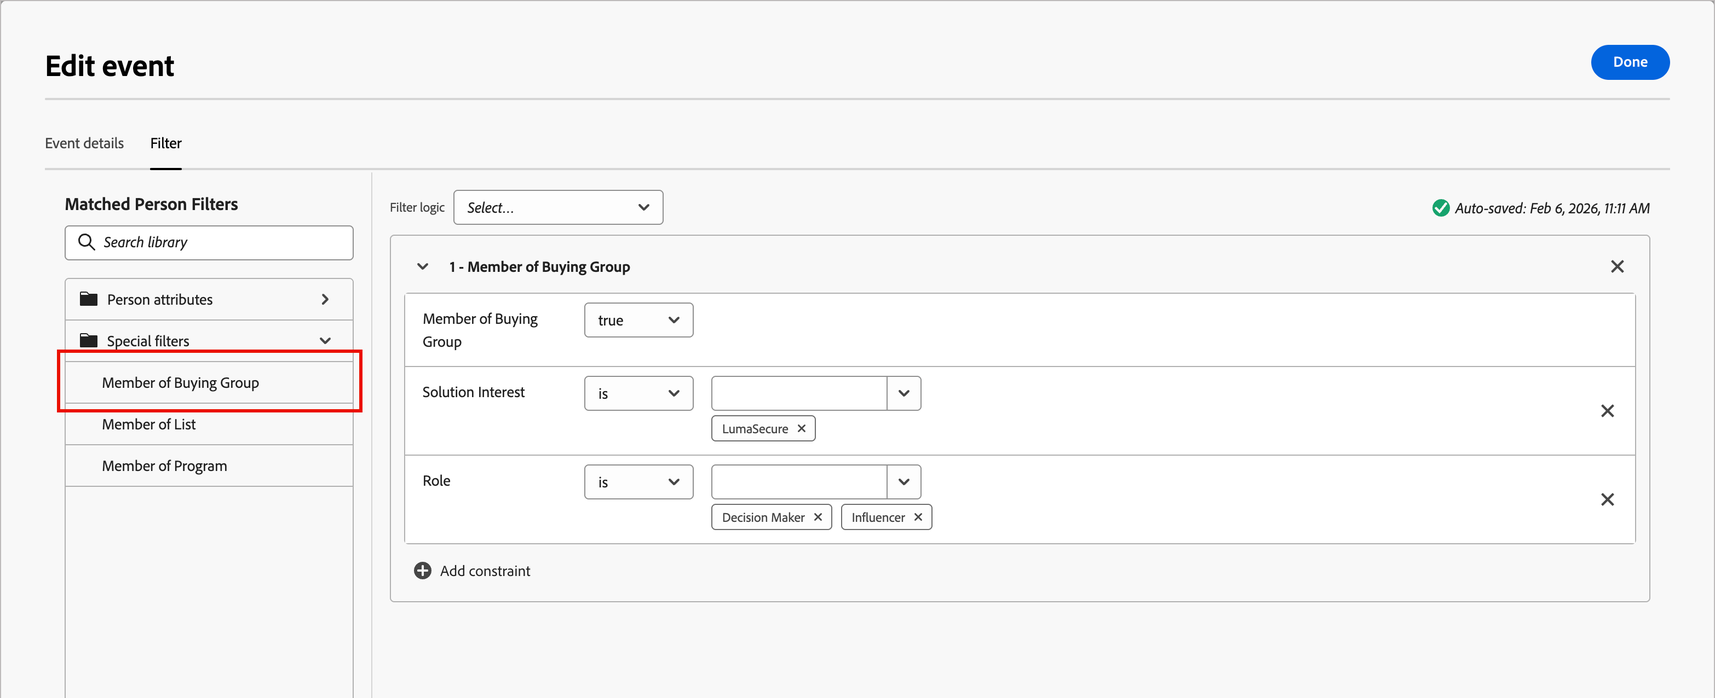
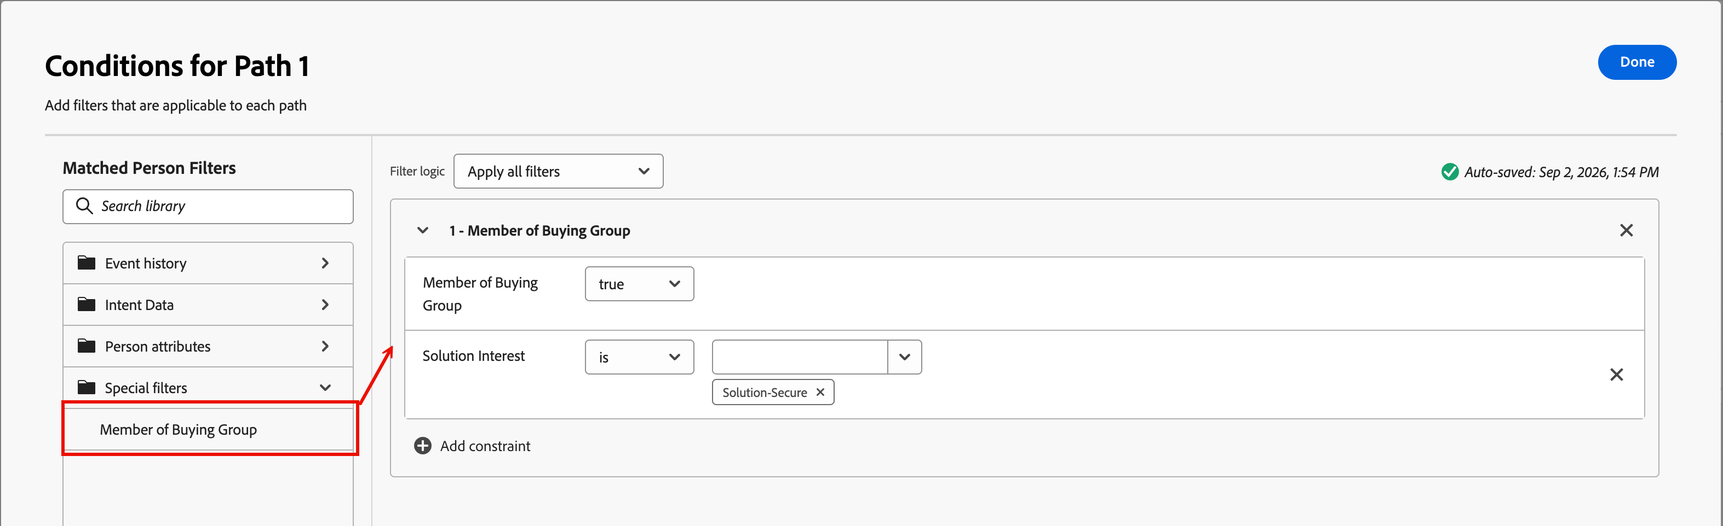
SPHR-38811, updates to finish cleanup from M1.5 transition

diff --git a/help/user/journeys/split-merge-paths-nodes.md b/help/user/journeys/split-merge-paths-nodes.md
@@ -105,7 +105,7 @@ _**How a split path by accounts node works**_
 
 You can define a path for accounts associated with buying groups and filter the path using buying group criteria. Use the **[!UICONTROL Account has matched buying group]** filter to define the path segment using a matched buying group. This filter also includes the option to identify accounts based on the number of assigned roles within a matched buying group.
 
-For example, you could evaluate buying group readiness based on the depth (number of people) it has in different roles, such as three decision makers and two influencers. In this case, set the condition to target accounts with a minimum of three (3) Decision Makers and two (2) Influencers in a matched buying group:
+For example, evaluate buying group readiness based on the depth (number of people) it has in different roles, such as three decision-makers and two influencers. In this case, set the condition to target accounts with a minimum of three (3) Decision Makers and two (2) Influencers in a matched buying group:
 
 1. Click **[!UICONTROL Add filter]** and choose the **[!UICONTROL Number of people in buying group role]** filter.
 
@@ -127,7 +127,7 @@ For example, you could evaluate buying group readiness based on the depth (numbe
 
 1. Click **[!UICONTROL Done]** when you have all conditions defined for the path.
 
-For the identified accounts, you could then add an action node in the path to update the status of the buying group or stage, or to send a sales alert email.
+To update the status of the buying group or stage, or to send a sales alert email for the identified accounts, add an action node in the path.
 
 ## Split paths by people
 
@@ -153,8 +153,6 @@ _**How a split path by people node works**_
 | [!UICONTROL Event history] | Splits people based on experience events that occurred prior to journey entry. Expand the folder to see all event types configured in [Admin > XDM event configuration](../admin/configure-aep-events.md) and select one to add as a filter. Constraints include fields from the selected event, a lookback time window measured back from when the person enters the journey, and an optional minimum number of times. |
 | [!UICONTROL Person attributes] | Attributes from the [person profile](../admin/field-mapping.md#xdm-business-person-attributes), including: <li>City <li>Country <li>Email address <li>Email invalid <li>Email suspended <li>First name <li>Inferred state region <li>Job title <li>Last name <li>Mobile phone number <li>Person engagement score <li>Phone number <li>Postal code <li>State |
 | [!UICONTROL Special filters] > [!UICONTROL Member of Buying Group] | The person is or is not a buying group member evaluated against one or more of the following criteria: <li>Solution Interest</li><li>Buying Group status</li><li>Completeness Score</li><li>Engagement Score</li><li>Is Removed</li><li>Role</li> |
-| [!UICONTROL Special filters] > [!UICONTROL Member of List] | (Deprecated) The person is or is not a member of one or more [!DNL Marketo Engage] lists. |
-| [!UICONTROL Special filters] > [!UICONTROL Member of Program] | (Deprecated) The person is or is not a member of one or more [!DNL Marketo Engage] programs. |
 
 ### Account-person path conditions
 
@@ -183,7 +181,7 @@ _**How a split path by people node works**_
 
 1. To define a condition applicable to _[!UICONTROL Path 1]_, click **[!UICONTROL Apply condition]**.
 
-1. In the conditions editor, add one or more filters to define the split path.
+1. To define the split path, add one or more filters in the conditions editor.
 
    * Drag and drop any of the people filters from the left navigation and complete the match definition.
 
@@ -217,15 +215,15 @@ _**How a split path by people node works**_
 
 ### Experience event history filtering {#experience-event-history-filtering}
 
-For a split path by people, you can define a path based on experience events that occurred before the person entered the journey. In the conditions editor, expand the **[!UICONTROL Event history]** folder to see a list of all event types configured by your administrator. Select an event type to add it as a filter condition.
+For a split path by people, you can define a path based on experience events that occurred before the person entered the journey. To see a list of all event types configured by your administrator, expand the **[!UICONTROL Event history]** folder in the conditions editor. Select an event type to add it as a filter condition.
 
 The lookback time window for event history is measured backward from the moment the person enters the journey. For example, a 30-day window evaluates whether the qualifying event occurred within the 30 days prior to journey entry.
 
-You can further refine the filter using constraints specific to the selected event's fields. The optional **[!UICONTROL Minimum number of times]** and **[!UICONTROL Date of activity]** constraints are both evaluated within the defined lookback window. Because event history data is synced from Adobe Experience Platform, there may be a brief delay before a recently occurring event becomes visible to this filter.
+You can further refine the filter using constraints specific to the selected event's fields. The optional **[!UICONTROL Minimum number of times]** and **[!UICONTROL Date of activity]** constraints are both evaluated within the defined lookback window. Because event history data is synced from Adobe Experience Platform, there may be a brief delay before a recently occurring event becomes available to this filter.
 
 >[!NOTE]
 >
->The events available in the [!UICONTROL Event history] folder are determined by the [Experience Events and fields configurations](../admin/configure-aep-events.md).
+>The [Experience Events and fields configurations](../admin/configure-aep-events.md) determine the events available in the [!UICONTROL Event history] folder.
 
 **Example:** To route people who clicked a link in a marketing email before entering the journey, select the email click event from the [!UICONTROL Event history] folder, set the lookback window to cover the relevant time period, and apply any field-level constraints (such as a specific link URL) as needed.
 
@@ -233,7 +231,7 @@ You can further refine the filter using constraints specific to the selected eve
 
 >[!BEGINSHADEBOX "Inactivity filtering"]
 
-For each of the _[!UICONTROL Event history]_ filters, you can enable the **[!UICONTROL Switch to inactivity filter]** option. This option changes the filter to an evaluation for an absence of that activity type. For example, add the _[!UICONTROL Direct Marketing Email Opened]_ filter to create a path for people who _**did not**_ open an email. Enable the inactivity option and specify the email.
+For each of the _[!UICONTROL Event history]_ filters, you can enable the **[!UICONTROL Switch to inactivity filter]** option. This option changes the filter to an evaluation for an absence of that activity type. To create a path for people who _**did not**_ open an email, add the _[!UICONTROL Direct Marketing Email Opened]_ filter. Enable the inactivity option and specify the email.
 
 ![Split path by people inactivity condition](./assets/node-split-people-condition-inactivity.png){width="700" zoomable="yes"}
 
@@ -241,40 +239,24 @@ For each of the _[!UICONTROL Event history]_ filters, you can enable the **[!UIC
 
 ### Membership filtering
 
-Within the _[!UICONTROL Special Filters]_ section, there are multiple filters that you can use to evaluate a person's membership in a buying group or [!DNL Marketo Engage] list. 
+Within the _[!UICONTROL Special Filters]_ section, there are multiple filters that you can use to evaluate a person's membership in a buying group. 
 
-For example, if you want to create a path for people who are members of a buying group and are assigned a particular role, add the _[!UICONTROL Special filters]_ > _[!UICONTROL Member of Buying group]_ filter. For the filter, set the membership as _true_, select a _[!UICONTROL Solution interest]_ that is associated with one or more buying groups, and set the _[!UICONTROL Role]_ that you want to match.
+For example, if you want to create a path for people who are members of a buying group and are assigned a particular role, add the _[!UICONTROL Special filters]_ > _[!UICONTROL Member of Buying group]_ filter. For the filter, set the membership as _true_ and select a _[!UICONTROL Solution interest]_ that is associated with one or more buying groups.
 
 ![Split path by people condition for buying group membership](./assets/node-split-people-condition-buying-group-membership.png){width="700" zoomable="yes"}
 
-You can also include additional buying group membership constraints:
+Click **[!UICONTROL Add constraint]** to include additional buying group membership constraints:
 
 * _[!UICONTROL Buying group stage]_
 * _[!UICONTROL Buying group status]_
 * _[!UICONTROL Completeness score]_
 * _[!UICONTROL Engagement score]_
 * _[!UICONTROL Is Removed]_
+* _[!UICONTROL Role]_
 
 >[!TIP]
 >
 >To exclude members who were removed from a buying group, use the _[!UICONTROL Is Removed]_ constraint set to `false`. You can also explicitly include removed members by setting this constraint to `true`.
-
->[!BEGINSHADEBOX "Marketo Engage list and program membership"]
-   
-In [!DNL Marketo Engage], _Smart Campaigns_ check membership of programs to ensure that leads don't receive duplicate emails and aren't members of multiple streams of emails at the same time. In Journey Optimizer B2B, you can check for [!DNL Marketo Engage] list membership as a condition for your split path by people to help eliminate duplication in journey activities.
-      
-To use list membership in a split condition, expand **[!UICONTROL Special Filters]** and drag the **[!UICONTROL Member of List]** or **[!UICONTROL Member of Program]** condition into the filter space. Complete the filter definition to evaluate membership in one or more [!DNL Marketo Engage] lists.
-   
-![Split path by people condition for [!DNL Marketo Engage] list membership](./assets/node-split-paths-conditions-people-member-of-list.png){width="700" zoomable="yes"}
-<br/>
-
->[!NOTE]
->
->**Feature deprecation**</br></br>
->
->In the current Journey Optimizer B2B Edition release, filtering based on list or program membership in a Marketo Engage instance is not supported.
-   
->[!ENDSHADEBOX]
 
 ## Custom data filtering {#custom-data-filtering}
 
@@ -288,7 +270,7 @@ For a **[!UICONTROL Split path by account]** or **[!UICONTROL Split path by peop
 
 ## Merge paths {#merge-paths}
 
-Add a _Merge paths_ node to combine different _split paths by account_ in your journey. 
+To combine different _split paths by account_ in your journey, add a _Merge paths_ node. 
 
 1. In a journey map with a split node that has three or more paths, add a combination of actions and events to each path.
 

diff --git a/help/user/journeys/action-nodes.md b/help/user/journeys/action-nodes.md
@@ -26,7 +26,7 @@ autotag-review: '2026-04-29T23:21:59.633Z'
 ---
 # Take an action
 
-To execute an action, such as sending an email, changing a score, or assigning to a buying group, you can add a _[!UICONTROL Take an action]_ node in your journey. Actions are typically what you want to happen as a result of some kind of trigger, such as an event or a previous action.
+To execute an action, such as sending an email, changing a score, or assigning to a buying group, add a _[!UICONTROL Take an action]_ node in your journey. Actions are typically what you want to happen as a result of some kind of trigger, such as an event or a previous action.
 
 ![Video](../../assets/do-not-localize/icon-video.svg){width="30"} [Watch the overview video](#overview-video)
 
@@ -137,12 +137,6 @@ In an account or person journey, use an action on people when you want to apply 
 | | [!UICONTROL Add to Marketo list] | <li>Account journey <li>Person journey | <li>Name of external Marketo connection <li>List name |
 | | [!UICONTROL Remove from Marketo list] | <li>Account journey <li>Person journey | <li>Name of external Marketo connection <li>List name |
 
->[!NOTE]
->
->The _[!UICONTROL Change People Partition in Marketo Engage]_ and _[!UICONTROL Change Score]_ actions are deprecated for the 2025.10 release and are no longer available in Journey Optimizer B2B Edition.<br/>
->
->The _[!UICONTROL Change Data Value]_ action is deprecated for the 2025.10 release. It is replaced with _[!UICONTROL Update person profile]_ in the current Journey Optimizer B2B Edition release.
-
 ### Add a people-based action
 
 1. Navigate to the journey map.
@@ -226,14 +220,6 @@ Use this action to add people profiles to a [buying group](../buying-groups/buyi
 
 +++
 
-+++[!UICONTROL Change Score]
-
-Use this action to change the person score in Marketo Engage. [Learn more](https://experienceleague.adobe.com/en/docs/marketo-learn/tutorials/lead-and-data-management/lead-scoring-learn){target="_blank"}
-
-![Take an action - Change score](./assets/node-action-change-score.png){width="300"}
-
-+++
-
 +++[!UICONTROL Person Interesting Moment]
 
 Use this action to log an interesting moment for people. Choose a type (Email, Milestone, or Web) and add a description (optional).
@@ -254,7 +240,7 @@ Use this action to [create personalized experiences](../content/web-experiences.
 
 Use this action to remove people profiles from a [buying group](../buying-groups/buying-groups-overview.md) based on a selected solution interest.
 
-![Take an action - Add to Buying Group](./assets/node-action-remove-from-buying-group.png){width="300"}
+![Take an action - Remove from Buying Group](./assets/node-action-remove-from-buying-group.png){width="300"}
 
 +++
 
@@ -270,9 +256,9 @@ Use the **[!UICONTROL Select Person Journey]** selector to specify the person jo
 
 +++[!UICONTROL Send email]
 
-Use this action to send an email. After you [create the email](../content/add-email.md#add-an-email-action-node-in-a-journey) for the node, you can design, personalize, and preview email messages in the email design space (see [Email authoring](../content/email-authoring.md)). You can also send an [email from Marketo Engage](https://experienceleague.adobe.com/en/docs/marketo/using/product-docs/email-marketing/general/creating-an-email/create-an-email){target="_blank"}. Select the Marketo Engage workspace and then select the email to send.
+Use this action to send an email. After you [create the email](../content/add-email.md#send-email-node) for the node, you can design, personalize, and preview email messages in the email design space (see [Email authoring](../content/email-authoring.md)).
 
-![Take an action - Send email](./assets/node-action-send-email-from-marketo.png){width="300"}
+![Take an action - Send email](./assets/node-action-send-email.png){width="300"}
 
 For person journeys, use [Send-time optimization](../content/email-send-time-optimization.md) to personalize email delivery timing by predicting when each profile is most likely to engage.
 
@@ -308,7 +294,7 @@ Use this action to change the value of a [people profile attribute](../admin/fie
 >
 >The _[!UICONTROL Update person profile]_ action replaces the _[!UICONTROL Change Data Value]_ action in the current Journey Optimizer B2B Edition release.<br/>
 >
->An administrator can configure the available attributes for the XDM Individual Profile by updating the fields in the _[!UICONTROL XDM Configurations]_ > [!UICONTROL Standard classes]. For more information, see [Standard schemas](../admin/xdm-field-management.md#standard-schemas).
+>An administrator can configure the available attributes for the XDM Individual Profile by updating the fields in the _[!UICONTROL XDM Configurations]_ > _[!UICONTROL Standard classes]_. For more information, see [Standard schemas](../admin/xdm-field-management.md#standard-schemas).
 
 +++
 
@@ -318,7 +304,7 @@ The [!DNL Marketo Engage] people-based actions are designed to coordinate your A
 
 >[!NOTE]
 >
->The Marketo Engage actions require configured integration with one or more external Marketo Engage instances. For detailed information about this configuration, see [_Activate Marketo Engage connections to support actions_](../admin/marketo-actions-connect.md).
+>The Marketo Engage actions require configured integration with one or more external Marketo Engage instances. To find detailed information about this configuration, see [_Activate Marketo Engage connections to support actions_](../admin/marketo-actions-connect.md).
 
 For example, suppress campaigns in Marketo Engage for people that are part of buying groups in Journey Optimizer B2B Edition. In this case, you can create a static list in Marketo Engage specifically for the solution interest. Then, on a split path by buying group, use the _Add to Marketo list_ action from a journey node. This action adds buying group members to a particular static list in a connected Marketo Engage instance. Then, use the solution interest focused static list for a smart list filter in Marketo Engage.
 

diff --git a/help/user/accounts/account-lists-journeys.md b/help/user/accounts/account-lists-journeys.md
@@ -1,6 +1,6 @@
 ---
-title: Use Account Lists in Journeys and Programs
-description: Use account lists in journey orchestration, add/remove accounts dynamically, and filter Marketo Engage Smart Lists in Journey Optimizer B2B Edition.
+title: Use Account Lists in Journeys
+description: Use account lists in journey orchestration and add/remove accounts dynamically in Journey Optimizer B2B Edition.
 feature: Account Lists, Account Journeys
 role: User
 exl-id: 7cda080d-6263-4ccd-b144-432e4e78c298
@@ -19,7 +19,7 @@ topic_v2:
 autotag-review: 2026-03-27T22:29:03.719Z
 TQID: https://experienceleague.adobe.com/FokJGxTj7abTN01WCcrVLDEuNLW0oI-i-8z0j-rFBO4
 ---
-# Use account lists in journeys and programs
+# Use account lists in journeys
 
 There are multiple ways that you can incorporate Live (published) account lists into your account journeys.
 
@@ -43,7 +43,7 @@ All account journeys start with an [_Account audience_ node](../journeys/account
 
 Within an account journey, add accounts to a static account list using [a _Take an Action_ node](../journeys/action-nodes.md).
 
-For example, you might have a journey path where you send an email and some account take various actions as a response actions. You consider this activity to be a qualification point in the journey. With the qualification, you want to add them to an account list that is used to as the audience for another journey with a different flow for qualified accounts.
+For example, you have a journey path where you send an email and some accounts take various actions as a response. You consider this activity to be a qualification point in the journey. With the qualification, you want to add them to an account list that is used as the audience for another journey with a different flow for qualified accounts.
 
 >[!NOTE]
 >
@@ -65,7 +65,7 @@ For example, you might have a journey path where you send an email and some acco
 
 Within an account journey, remove accounts from a static account list using [a _Take an Action_ node](../journeys/action-nodes.md).
 
-For example, you might have a journey path where you send an email and some account take various actions as a response actions. You consider this activity to be a qualification point in the journey. With this qualification, you want to remove them from an account list that is used to as the audience for another journey that sends additional emails so that you don't duplicate your qualification communications.
+For example, you have a journey path where you send an email and some accounts take various actions as a response. You consider this activity to be a qualification point in the journey. With this qualification, you want to remove them from an account list. This list is used as the audience for another journey that sends additional emails so that you don't duplicate your qualification communications.
 
 >[!NOTE]
 >
@@ -75,38 +75,8 @@ For example, you might have a journey path where you send an email and some acco
 
 1. For _[!UICONTROL Action on accounts]_, choose **[!UICONTROL Remove from account list]**.
 
-   ![Select Add to account list](../journeys/assets/node-action-account-remove-from-account-list.png){width="500"}
+   ![Select Remove from account list](../journeys/assets/node-action-account-remove-from-account-list.png){width="500"}
 
 1. For **[!UICONTROL Select live static account list]**, choose the account list where you want to remove accounts.
 
-   ![Select Add to account list](../journeys/assets/node-action-account-remove-from-account-list-select.png){width="500"}
-
-## Marketo Engage program - Member of account list
-
-As a Marketer, you might want to suppress programs in Marketo Engage for people that are part of account lists in Journey Optimizer B2B Edition.
-
-In the Marketo Engage instance that is connected to Journey Optimizer B2B Edition, you can use the _[!UICONTROL Member of Account List]_ filter in your Smart Lists to identify these leads according to your campaign strategy. For more information about Smart Lists, refer to the [Marketo Engage documentation](https://experienceleague.adobe.com/en/docs/marketo/using/product-docs/core-marketo-concepts/smart-lists-and-static-lists/understanding-smart-lists){target="_blank"}.
-
-### Add the filter to a Smart List
-
-1. In Marketo Engage, select a campaign and click the **[!UICONTROL Smart List]** tab.
-
-1. In the filters list displayed on the right, enter `Member` and locate the **[!UICONTROL Member of Account List]** filter.
-
-1. Drag the filter onto the Smart List canvas.
-
-1. On the Smart List canvas, set the **[!UICONTROL Member of account]** list value.
-
-   Click the down arrow to display all account lists, or enter part of the account list name to help locate the account list that you need.
-
-   ![Marketo Engage smart list filter for account list membership](./assets/account-lists-marketo-engage-smart-list.png){width="800" zoomable="yes"}
-
-1. In the campaign flow, add the **[!UICONTROL Add to List]** step and choose the list where you want to populate the people from the Journey Optimizer B2B Edition account list.
-
-   Refer to _[Add a Flow step to a smart campaign](https://experienceleague.adobe.com/en/docs/marketo/using/product-docs/core-marketo-concepts/smart-campaigns/flow-actions/add-a-flow-step-to-a-smart-campaign){target="_blank"}_ in the Marketo Engage documentation for detailed information about adding steps to a flow.
-
-### Review the members
-
-After the flow runs, you can view the list of people populated in the list. Open the list and select the People tab.
-
-![Marketo Engage campaign list populated from an account list](./assets/account-lists-marketo-engage-smart-list-people.png){width="800" zoomable="yes"}
+   ![Select Remove from account list](../journeys/assets/node-action-account-remove-from-account-list-select.png){width="500"}

diff --git a/help/user/release-notes/release-notes.md b/help/user/release-notes/release-notes.md
@@ -163,7 +163,7 @@ The following agentic AI capabilities are now available for Journey Optimizer B2
 
 | Type | Item | Description |
 | ---- | ---- | ----------- |
-| Feature | Activate to destination for journeys | Use the new _Activate to destination_ company account action to activate directly to companies, rather than individuals. (Limited to LinkedIn companies for this release.) [Learn more](../journeys/action-nodes.md#activate-to-a-linkedin-destination) |
+| Feature | Activate to destination for journeys | Use the new _Activate to destination_ company account action to activate directly to companies, rather than individuals. (Limited to LinkedIn companies for this release.) [Learn more](../journeys/action-nodes.md#activate-deactivate-destination) |
 | Feature | Brand themes | With brand themes, non-technical users now have the ability to create reusable content that fits a specific brand and design language by adding custom styling on top of the standard templates. [Learn more](../content/brand-themes.md) |
 | Feature | Email templates - convert image to HTML | You can now use your design files stored as JPG or PNG image files and automatically generate email templates. [Learn more](../content/email-template-image-convert.md) |
 | Feature | Persona mapping | Tie account members with established personas with attribute mapping. [Learn more](../admin/persona-mapping.md) |
@@ -281,7 +281,7 @@ This release includes the following new capabilities and enhancements:
 | ---- | ---- | ----------- |
 | Feature | Account lists | You can now create a static or dynamic account list to target named accounts by your defined criteria, such as industry, location, or size of the company. <a href="../accounts/account-lists.md">Learn more</a> |
 | Feature | Account list journey orchestration | Use journey action nodes to add and remove accounts for static account lists. <a href="../accounts/account-lists-journeys.md#take-an-action-node---add-to-account">Learn more</a> |
-| Enhancement | Filter journey membership in Marketo Engage | Use Adobe Journey Optimizer B2B Edition account lists for the journey audience and then use the _Member of an account list_ filter in Marketo Engage smart lists. <a href="../accounts/account-lists-journeys.md#marketo-engage-program---member-of-account-list">Learn more</a> |
+| Enhancement | Filter journey membership in Marketo Engage | Use Adobe Journey Optimizer B2B Edition account lists for the journey audience and then use the _Member of an account list_ filter in Marketo Engage smart lists. |
 | Feature | Inactivity filters | Orchestrate journeys based on inactivity within Marketo Engage campaigns and programs, including email inactivity, interesting moments, data value changes, and visited web pages. |
 | Enhancement | Visited web page filter | Orchestrate journeys based on activity for visited web pages associated with Marketo Engage campaigns and programs. |
 | Enhancement | Emails list | View a global list of active and draft emails to search, review, and update them across the associated account journeys. <a href="../content/emails-list.md">Learn more</a> |

diff --git a/help/user/journeys/journeys-overview.md b/help/user/journeys/journeys-overview.md
@@ -171,7 +171,7 @@ A duplicate action is similar to a clone function, but a duplicated journey does
 
 1. Choose the duplication **[!UICONTROL Type]**:
 
-   * **[!UICONTROL Partial content duplication]** - Use this type to copy everything in the journey, excluding any created emails or SMS messages. Nodes that reference a Marketo Engage email or SMS message are fully intact.
+   * **[!UICONTROL Partial content duplication]** - Use this type to copy everything in the journey, excluding any created emails or SMS messages. Nodes that reference an SMS message are fully intact.
 
    * **[!UICONTROL Duplicate without details]** - Use this type to copy only the node structure and paths. All node settings and path conditions are undefined (default), so that you can use the basic flow again with different audience, actions, and path segmentation settings. All _Wait_ nodes use the default of five days.
 

diff --git a/help/user/journeys/next-best-path-node.md b/help/user/journeys/next-best-path-node.md
@@ -274,7 +274,7 @@ Use simulation to test how the AI evaluates your prompts against a real audience
 1. In the dialog, choose the audience to use for the simulation:
 
    * **[!UICONTROL Original person lists]** – Use the audience from the audience node. Specify a sample size when the full audience exceeds the simulation threshold.
-   * **[!UICONTROL Dynamic and static lists]** – Use a [!DNL Marketo Engage] static or dynamic list.
+   * **[!UICONTROL Dynamic and static lists]** – Use a static or dynamic people list.
    * **[!UICONTROL Test records]** – Use AI-suggested test profiles.
 
    ![Next best path - Simulate - choose audience](./assets/node-next-best-path-simulate-dialog.png){width="300"}   

diff --git a/help/user/TOC.md b/help/user/TOC.md
@@ -89,7 +89,7 @@ user-guide-description: Learn about Adobe Journey Optimizer B2B Edition and how 
        + [In-CRM Insights](./buying-groups/incrm-insights.md)
     + Account lists {#account-lists}    
        + [Overview](./accounts/account-lists.md)
-       + [Use in journeys and programs](./accounts/account-lists-journeys.md)
+       + [Use in journeys](./accounts/account-lists-journeys.md)
     + Sales experience {#sales-experience}
       + [Account details](./accounts/account-details.md)
       + [Buying group details](./buying-groups/buying-group-details.md)
